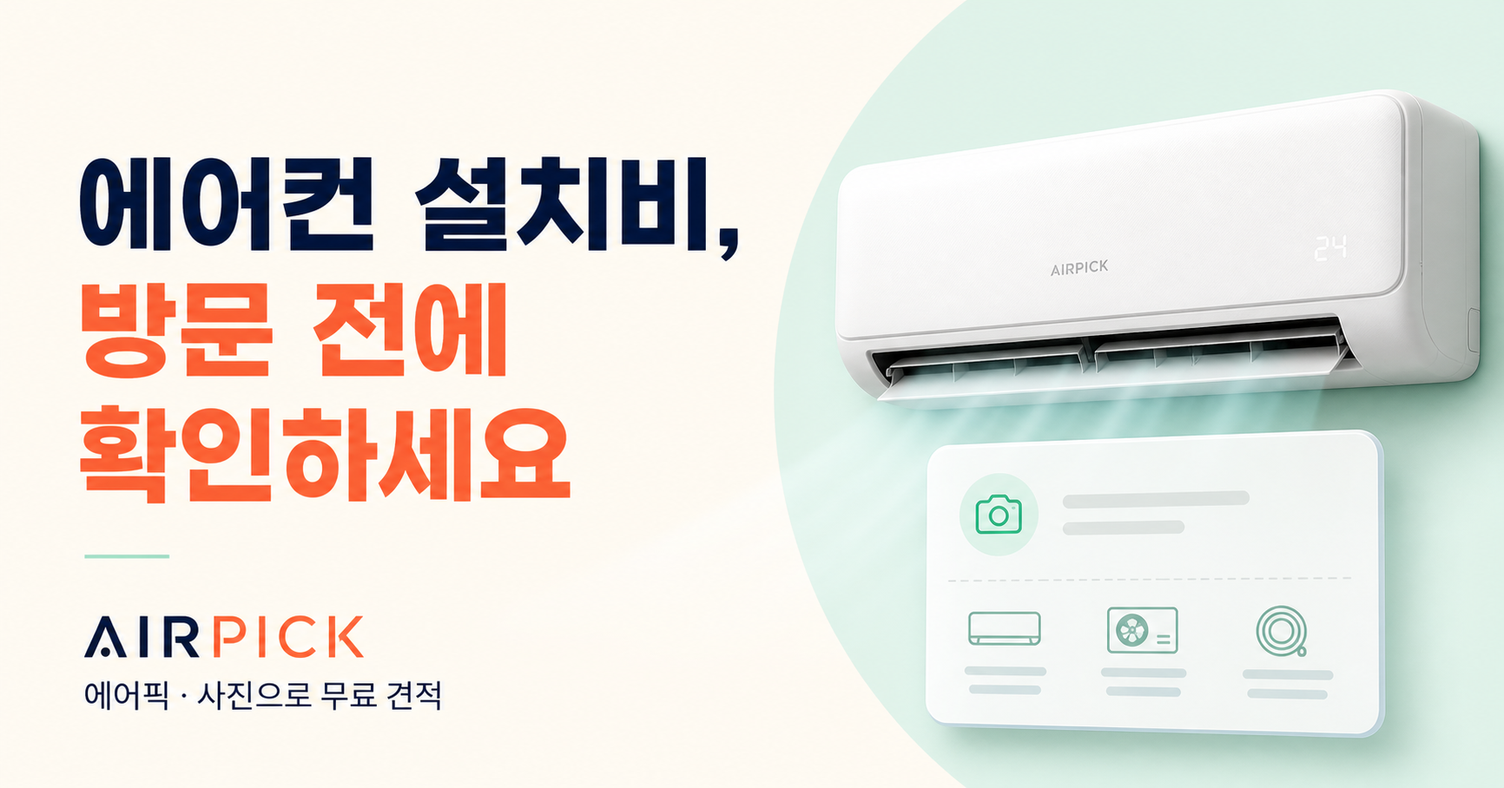
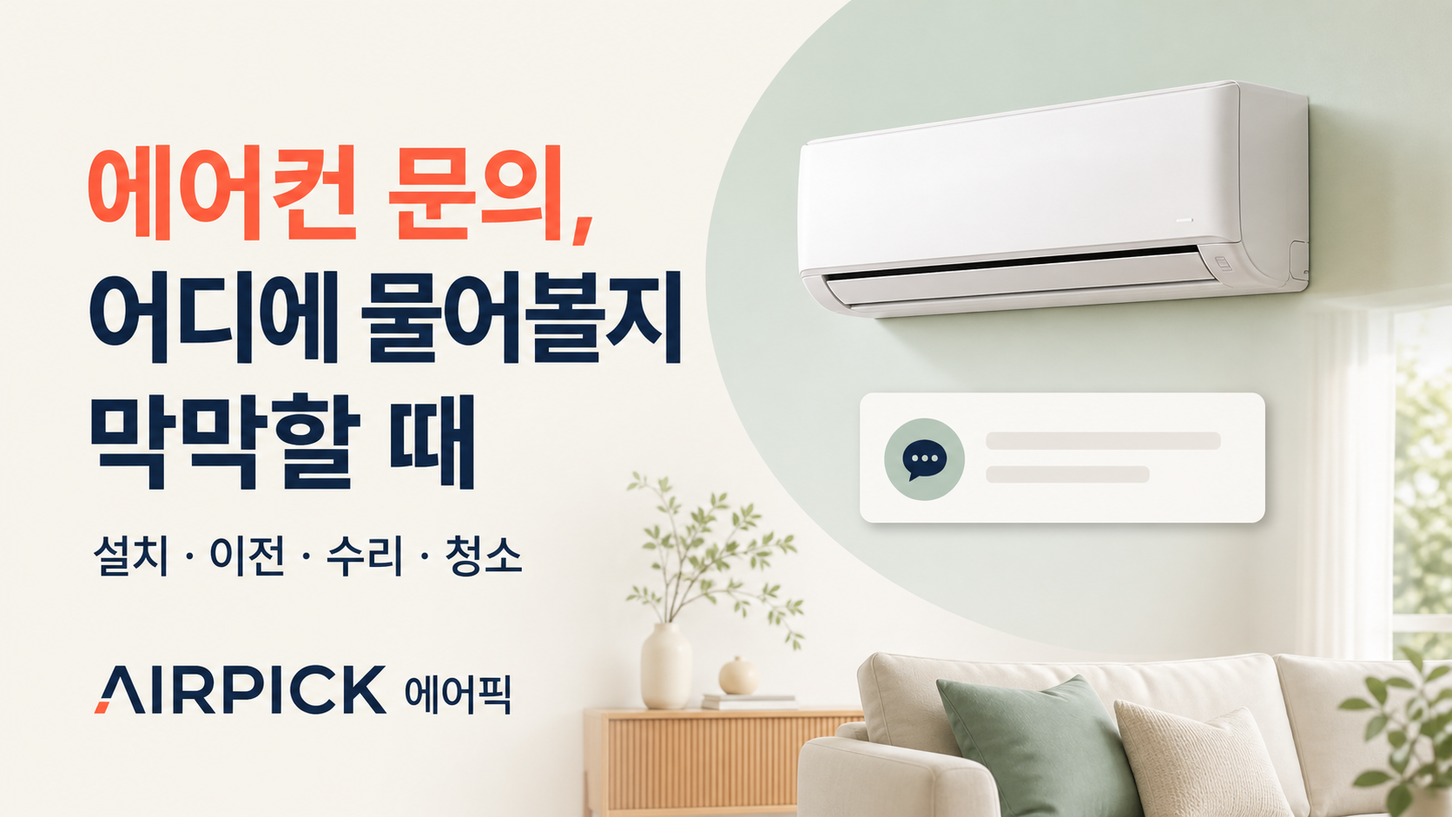
Redesign inquiry-focused home page

diff --git a/app/page.tsx b/app/page.tsx
@@ -1,26 +1,74 @@
 import Link from "@/components/HardLink";
-import { airconTypes, cases, money, posts, prices, SITE } from "../lib/site";
+import { airconTypes, cases, money, prices, SITE } from "../lib/site";
+
+const inquiryServices = [
+  { href: "/install", no: "01", icon: "+", title: "신규 설치", copy: "새 제품 설치가 필요해요" },
+  { href: "/relocation", no: "02", icon: "↔", title: "이전 설치", copy: "철거 후 다른 곳에 옮기고 싶어요" },
+  { href: "/repair", no: "03", icon: "⚙", title: "점검·수리", copy: "냉방, 누수, 소음 문제가 있어요" },
+  { href: "/cleaning", no: "04", icon: "✦", title: "분해 청소", copy: "냄새와 내부 오염이 걱정돼요" },
+  { href: "/system-aircon", no: "05", icon: "▦", title: "시스템에어컨", copy: "가정용 천장형 상담이 필요해요" },
+  { href: "/commercial-aircon", no: "06", icon: "▤", title: "상업용 냉난방", copy: "매장·사무실용으로 문의할게요" },
+];
+
+const faq = [
+  ["문의하면 바로 예약되는 건가요?", "아니요. 문의 내용을 확인한 뒤 연결 가능 여부를 안내하며, 업체와 가격·일정·작업 조건을 확인한 후 예약 여부를 결정합니다."],
+  ["상담 신청에 비용이 드나요?", "문의 접수와 상담 신청은 무료입니다. 실제 작업 비용은 제품과 현장 조건을 확인한 업체가 별도로 안내합니다."],
+  ["사진을 꼭 올려야 하나요?", "사진은 선택사항입니다. 다만 에어컨 전체, 실외기 위치와 배관 경로 사진이 있으면 현장 조건을 파악하는 데 도움이 됩니다."],
+  ["어느 지역에서 문의할 수 있나요?", "전국 주소를 입력해 문의할 수 있습니다. 지역과 작업 조건에 따라 연결 가능 여부는 달라질 수 있습니다."],
+];
 
 export default function Home() {
   const jsonLd = { "@context":"https://schema.org", "@type":"WebSite", name:SITE.name, url:SITE.url, description:SITE.description };
-  return <>
-    <script type="application/ld+json" dangerouslySetInnerHTML={{__html: JSON.stringify(jsonLd)}}/>
-    <section className="hero"><div className="hero-inner"><div className="hero-copy"><div className="eyebrow"><span>✓</span> 에어컨 문의, 한곳에서 간편하게</div><h1>설치·이전·수리,<br/><em>어디에 물어볼지</em> 막막할 때</h1><p>필요한 작업과 지역을 남겨주세요.<br/>비용 기준과 상담 가능 여부를 안내해드립니다.</p><div className="hero-actions"><Link href="/estimate" className="btn primary">에어컨 문의하기 <span>→</span></Link><Link href="/price" className="btn secondary">예상 가격 보기</Link></div><div className="trust-row"><span><b>무료</b> 문의 접수</span><span><b>간편</b> 1분 신청</span><span><b>안내</b> 가능 여부 개별 연락</span></div></div>
-      <div className="hero-visual" aria-label="밝은 거실의 벽걸이 에어컨 예시 사진"><div className="hero-photo-real photo-wall"><span className="photo-chip">벽걸이 · 스탠드 · 시스템 · 상업용</span><div className="hero-price-card"><div><span className="mini-logo">A</span><p><b>무료 상담 신청</b><small>현장 조건과 필요한 작업 확인</small></p></div><strong>무료 <i>→</i></strong></div></div></div>
-    </div><div className="hero-ticker"><span>예상 가격 안내</span><span>·</span><span>전국 지역 문의</span><span>·</span><span>설치·이전·수리·청소</span><span>·</span><span>무료 문의 접수</span></div></section>
+  return <div className="home-v2">
+    <script type="application/ld+json" dangerouslySetInnerHTML={{__html:JSON.stringify(jsonLd)}}/>
 
-    <section className="section services"><div className="section-head"><div><span className="kicker">ALL AIRCON TYPES</span><h2>어떤 에어컨이든<br/>먼저 문의해보세요</h2></div><p>벽걸이부터 가정용 시스템, 상업용 냉난방까지<br/>제품과 현장 조건에 맞는 상담을 접수합니다.</p></div><div className="service-grid type-grid">{airconTypes.map((s, i)=><Link href={`/estimate?aircon=${s.slug}`} className="service-card type-card" key={s.slug}><span className="service-no">0{i+1}</span><div className={`type-photo photo-${s.photo}`} role="img" aria-label={`${s.name} 설치 모습`}></div><h3>{s.name}</h3><p>{s.copy}</p><div><small>참고 시작가</small><strong>{s.price}</strong><span className="round-arrow">↗</span></div></Link>)}</div><div className="service-links"><span>필요한 작업</span><Link href="/install">신규 설치</Link><Link href="/relocation">이전 설치</Link><Link href="/repair">고장 수리</Link><Link href="/cleaning">분해 청소</Link><Link href="/system-aircon">가정용 시스템</Link><Link href="/commercial-aircon">상업용 냉난방</Link><Link href="/estimate">철거·기타 문의</Link></div></section>
+    <section className="home-hero">
+      <div className="home-hero-copy">
+        <div className="home-badge"><i/> 설치 · 이전 · 수리 · 청소 문의</div>
+        <h1>에어컨 문제,<br/><em>어디에 문의할지</em><br/>막막하셨나요?</h1>
+        <p>제품 종류와 필요한 작업만 알려주세요.<br/>참고 비용과 상담 가능 여부를 확인해드립니다.</p>
+        <div className="home-hero-actions">
+          <Link href="/estimate" className="home-main-cta">에어컨 문의하기 <span>→</span></Link>
+          <Link href="/price" className="home-sub-cta">예상 가격 먼저 보기</Link>
+        </div>
+        <ul className="home-proof"><li><b>무료</b><span>문의 접수</span></li><li><b>1분</b><span>간편 신청</span></li><li><b>전국</b><span>지역 입력</span></li></ul>
+      </div>
+      <div className="home-hero-media">
+        <div className="home-hero-photo" role="img" aria-label="거실 벽걸이 에어컨 설치 예시"></div>
+        <div className="home-float-card home-float-top"><span>지금 필요한 작업</span><b>설치부터 수리까지</b><small>한 번에 문의하세요</small></div>
+        <div className="home-float-card home-float-bottom"><i>A</i><div><b>에어픽 문의 접수</b><small>작업 조건 확인 후 개별 안내</small></div><strong>무료</strong></div>
+      </div>
+    </section>
 
-    <section className="price-preview"><div className="price-preview-inner"><div className="price-copy"><span className="kicker light">REFERENCE PRICE GUIDE</span><h2>문의하기 전에,<br/>예상 비용을 살펴보세요</h2><p>기본 설치비와 자주 발생하는 추가 비용을<br/>참고할 수 있도록 정리했습니다.</p><Link href="/price" className="text-link">전체 가격표 확인하기 <span>→</span></Link></div><div className="price-sheet"><div className="sheet-head"><span>서비스 항목</span><span>기준 가격</span></div>{prices.slice(0,5).map((p,i)=><div className="sheet-row" key={i}><div><span className={`dot d${i}`}></span><div><b>{p.category} {p.name}</b><small>{p.note}</small></div></div><strong>{money(p.price)}<small> / {p.unit}</small></strong></div>)}<div className="sheet-alert"><span>!</span><p><b>꼭 확인해주세요</b><br/>정확한 금액은 배관 길이와 실외기 위치 등 현장 조건에 따라 달라질 수 있습니다.</p></div></div></div></section>
+    <nav className="home-quick" aria-label="빠른 안내"><span>무엇이 궁금하세요?</span><Link href="/price">예상 가격</Link><Link href="/cases">비용 사례</Link><Link href="/service-policy">이용 방식</Link><Link href="/estimate">기타 문의</Link></nav>
 
-    <section className="section process"><div className="center-head"><span className="kicker">3 SIMPLE STEPS</span><h2>간편하게 상담받아보세요</h2><p>복잡한 설명 없이 필요한 정보만 남겨주세요</p></div><div className="steps"><div><span>01</span><div className="step-visual phone-shot"><i></i><b>서비스 선택</b><small>사진은 선택</small></div><h3>필요한 작업을 선택하세요</h3><p>제품 종류와 지역, 희망일을<br/>간단하게 알려주세요.</p></div><div className="step-line">→</div><div><span>02</span><div className="step-visual form-shot"><i>✓</i><b>상담 신청 접수</b><small>1분이면 완료</small></div><h3>신청 내용을 확인합니다</h3><p>남겨주신 정보를 살펴본 뒤<br/>상담을 위해 연락드립니다.</p></div><div className="step-line">→</div><div><span>03</span><div className="step-visual answer-shot"><i>↗</i><b>전문가 상담 안내</b><small>조건 확인</small></div><h3>연결 가능한 전문가를 안내합니다</h3><p>업체와 작업 조건을 확인한 뒤<br/>예약 여부를 결정하실 수 있어요.</p></div></div><div className="center-action"><Link href="/estimate" className="btn primary">무료 상담 신청 <span>→</span></Link></div></section>
+    <section className="home-block home-services">
+      <div className="home-heading"><div><span>01 · SERVICE</span><h2>어떤 작업이 필요하세요?</h2></div><p>가장 가까운 항목을 선택하면<br/>해당 서비스의 비용과 확인사항을 볼 수 있어요.</p></div>
+      <div className="home-service-grid">{inquiryServices.map(service=><Link href={service.href} className="home-service" key={service.title}><small>{service.no}</small><i>{service.icon}</i><div><h3>{service.title}</h3><p>{service.copy}</p></div><b>→</b></Link>)}</div>
+      <div className="home-other"><span>철거, 냉매 충전 또는 정확한 작업명을 모르시나요?</span><Link href="/estimate">기타 문의 남기기 →</Link></div>
+    </section>
 
-    <section className="cases-home"><div className="section"><div className="section-head"><div><span className="kicker">ESTIMATED COST CASES</span><h2>비슷한 조건의<br/>예상 비용을 참고하세요</h2></div><Link href="/cases" className="text-link dark">비용 사례 전체보기 →</Link></div><div className="case-grid">{cases.map(c=><Link href={`/cases/${c.slug}`} className="case-card" key={c.slug}><div className="case-art case-photo" style={{backgroundImage:`url('${c.image}')`}}><span className="case-tag">{c.type}</span><span className="photo-label">현장 예시 이미지</span></div><div className="case-body"><small>예상 조건 · {c.region}</small><h3>{c.title}</h3><p>{c.summary}</p><div><span>예상 작업비</span><strong>{money(c.total)}</strong></div></div></Link>)}</div></div></section>
+    <section className="home-type-section">
+      <div className="home-block">
+        <div className="home-heading light"><div><span>02 · AIRCON TYPE</span><h2>제품 종류별로 확인하세요</h2></div><p>벽걸이부터 시스템·상업용까지<br/>사진을 보고 내 제품과 가까운 유형을 선택하세요.</p></div>
+        <div className="home-type-grid">{airconTypes.map((type,index)=><Link href={`/estimate?aircon=${type.slug}`} className="home-type-card" key={type.slug}><div className={`home-type-photo photo-${type.photo}`} role="img" aria-label={`${type.name} 예시 사진`}><span>0{index+1}</span></div><div><h3>{type.name}</h3><p>{type.copy}</p><small>참고 시작가 <b>{type.price}</b></small></div></Link>)}</div>
+      </div>
+    </section>
 
-    <section className="section guide"><div className="section-head"><div><span className="kicker">AIRCON GUIDE</span><h2>알아두면 비용이<br/>보이는 에어컨 가이드</h2></div><Link href="/blog" className="text-link dark">가이드 전체보기 →</Link></div><div className="post-grid">{posts.slice(0,3).map((p,i)=><Link href={`/blog/${p.slug}`} className="post-card" key={p.slug}><div className={`post-art post-${i}`}><span>{i===0?"₩":i===1?"⌂":"↗"}</span></div><small>{p.category} · {p.read}</small><h3>{p.title}</h3><p>{p.excerpt}</p><b>읽어보기 →</b></Link>)}</div></section>
+    <section className="home-block home-price-area">
+      <div className="home-price-copy"><span>03 · PRICE GUIDE</span><h2>문의 전,<br/>대략적인 비용부터</h2><p>표시된 금액은 일반적인 조건을 기준으로 한 참고 가격입니다. 배관 길이, 실외기 위치와 제품 상태에 따라 실제 비용은 달라질 수 있어요.</p><Link href="/price">전체 예상 가격 확인 →</Link></div>
+      <div className="home-price-card"><div className="home-price-head"><b>자주 찾는 예상 가격</b><span>참고용</span></div>{prices.slice(0,5).map((price,index)=><div className="home-price-row" key={`${price.name}-${index}`}><i className={`p${index}`}/><div><b>{price.category} {price.name}</b><small>{price.note}</small></div><strong>{money(price.price)}<small> / {price.unit}</small></strong></div>)}<p>※ 정확한 금액은 상담 및 현장 조건 확인 후 결정됩니다.</p></div>
+    </section>
 
-    <section className="connection-notice"><div className="connection-notice-inner"><div><span className="kicker light">CLEAR & SIMPLE</span><h2>상담부터 예약까지<br/>확인하고 결정하세요</h2><p>에어픽은 필요한 에어컨 서비스 상담을 접수하고 연결을 돕습니다. 업체 정보와 예상 작업 조건을 확인한 뒤 고객이 예약 여부를 결정합니다.</p><Link href="/service-policy" className="text-link">서비스 이용 안내 보기 →</Link></div><div className="connection-points"><div><b>01</b><span><strong>상담 신청은 무료</strong>부담 없이 필요한 서비스를 알려주세요</span></div><div><b>02</b><span><strong>가격은 현장 조건에 따라 확인</strong>배관·타공·실외기 위치 등을 살펴봅니다</span></div><div><b>03</b><span><strong>예약은 상담 후 결정</strong>업체와 작업 조건을 확인하고 선택하세요</span></div></div></div></section>
+    <section className="home-case-section"><div className="home-block">
+      <div className="home-heading"><div><span>04 · COST EXAMPLES</span><h2>비슷한 조건의 비용 예시</h2></div><Link href="/cases" className="home-section-link">전체 사례 보기 →</Link></div>
+      <div className="home-case-grid">{cases.slice(0,3).map(item=><Link href={`/cases/${item.slug}`} className="home-case" key={item.slug}><div className="home-case-photo" style={{backgroundImage:`url('${item.image}')`}}><span>{item.type}</span><small>현장 예시 이미지</small></div><div><small>예상 조건 · {item.region}</small><h3>{item.title}</h3><p>{item.summary}</p><footer><span>예상 작업비</span><b>{money(item.total)}</b></footer></div></Link>)}</div>
+    </div></section>
 
-    <section className="final-cta"><div><span>설치·이전·수리, 어디에 문의할지 고민되시나요?</span><h2>필요한 작업을 알려주세요.<br/>가능한 상담 방법을 안내할게요.</h2><p>문의 접수는 무료이며 작업 예약은 조건 확인 후 결정합니다.</p><div><Link href="/estimate" className="btn white">에어컨 문의하기 →</Link></div></div><div className="cta-orbit"><div className="big-ac">A</div><span className="bubble one">문의 무료</span><span className="bubble two">간편 접수</span></div></section>
-  </>;
+    <section className="home-flow"><div className="home-block"><div className="home-flow-title"><span>05 · HOW IT WORKS</span><h2>문의부터 결정까지</h2><p>신청만으로 예약되지 않아요.<br/>확인하고 나서 결정하시면 됩니다.</p></div><ol><li><b>01</b><div><strong>문의 접수</strong><span>서비스·제품·지역 입력</span></div></li><li><b>02</b><div><strong>내용 확인</strong><span>현장 조건과 상담 가능 여부 확인</span></div></li><li><b>03</b><div><strong>상담 안내</strong><span>연결 가능한 업체 정보 안내</span></div></li><li><b>04</b><div><strong>고객 결정</strong><span>가격과 일정 확인 후 예약 선택</span></div></li></ol></div></section>
+
+    <section className="home-block home-faq"><div className="home-heading"><div><span>06 · FAQ</span><h2>문의 전에 많이 물어보는 내용</h2></div></div><div className="home-faq-list">{faq.map(([question,answer])=><details key={question}><summary>{question}<span>＋</span></summary><p>{answer}</p></details>)}</div></section>
+
+    <section className="home-bottom-cta"><div><span>에어컨 설치·이전·수리·청소</span><h2>무엇부터 확인해야 할지 몰라도<br/>편하게 문의하세요.</h2><p>필요한 작업과 지역을 남겨주시면 확인 후 연락드립니다.</p><Link href="/estimate">무료로 문의하기 <b>→</b></Link></div><div className="home-bottom-mark">A</div></section>
+  </div>;
 }

diff --git a/app/globals.css b/app/globals.css
@@ -43,3 +43,9 @@
 @media(max-width:800px){.connection-notice{padding:64px 20px}.connection-notice-inner{grid-template-columns:1fr;gap:38px}.connection-notice h2{font-size:28px}.policy-check ul{grid-template-columns:1fr}}
 
 @media(max-width:600px){.policy-list section{grid-template-columns:38px 1fr;gap:10px}.policy-highlight{padding:20px}}
+
+/* Home inquiry-first redesign */
+.home-v2{background:#fff}.home-hero{max-width:1280px;margin:auto;padding:64px 48px 42px;display:grid;grid-template-columns:1fr .92fr;gap:70px;align-items:center}.home-hero-copy{padding-left:22px}.home-badge{display:inline-flex;align-items:center;gap:9px;padding:9px 13px;border:1px solid #ffd9cf;border-radius:999px;background:#fff6f2;color:#d84d2d;font-size:12px;font-weight:850}.home-badge i{width:7px;height:7px;border-radius:50%;background:var(--coral);box-shadow:0 0 0 4px #ffe1da}.home-hero h1{font-size:61px;line-height:1.13;letter-spacing:-.07em;margin:24px 0 22px}.home-hero h1 em{color:var(--coral);font-style:normal}.home-hero-copy>p{font-size:18px;line-height:1.75;color:#606a79;margin:0}.home-hero-actions{display:flex;gap:10px;margin-top:30px}.home-main-cta,.home-sub-cta{height:56px;padding:0 23px;border-radius:11px;display:inline-flex;align-items:center;justify-content:center;font-size:15px;font-weight:850}.home-main-cta{background:var(--coral);color:#fff;gap:38px;box-shadow:0 12px 28px rgba(255,104,70,.24)}.home-sub-cta{border:1px solid #dfe2e5;background:#fff}.home-proof{list-style:none;padding:0;margin:34px 0 0;display:flex}.home-proof li{padding:0 28px;border-right:1px solid #e1e3e5}.home-proof li:first-child{padding-left:0}.home-proof li:last-child{border:0}.home-proof b,.home-proof span{display:block}.home-proof b{font-size:17px}.home-proof span{font-size:11px;color:#87909c;margin-top:3px}.home-hero-media{height:530px;position:relative}.home-hero-media:before{content:"";position:absolute;inset:35px -20px -15px 55px;background:#dff2eb;border-radius:180px 24px 24px 24px}.home-hero-photo{position:absolute;inset:0 22px 34px 0;border-radius:22px;background:url('/aircon-types.png') left top/auto 200% no-repeat;box-shadow:0 24px 55px rgba(18,33,61,.15)}.home-float-card{position:absolute;z-index:2;background:rgba(255,255,255,.96);backdrop-filter:blur(12px);box-shadow:0 14px 38px rgba(18,33,61,.16)}.home-float-top{right:-7px;top:42px;border-radius:13px;padding:16px 20px;width:190px}.home-float-top span,.home-float-top small{display:block;color:#8a929d;font-size:10px}.home-float-top b{display:block;font-size:15px;margin:6px 0 3px}.home-float-bottom{left:-30px;right:0;bottom:3px;border-radius:15px;padding:15px 17px;display:flex;align-items:center;gap:12px}.home-float-bottom>i{display:grid;place-items:center;width:39px;height:39px;border-radius:11px;background:var(--ink);color:#fff;font-weight:900;font-style:italic}.home-float-bottom>div{flex:1}.home-float-bottom b,.home-float-bottom small{display:block}.home-float-bottom b{font-size:14px}.home-float-bottom small{font-size:10px;color:#89919d;margin-top:4px}.home-float-bottom>strong{color:var(--coral);font-size:18px}.home-quick{max-width:1160px;margin:0 auto 12px;border:1px solid #e7e8e6;border-radius:12px;padding:13px 18px;display:flex;align-items:center;justify-content:center;gap:9px;background:#fff;box-shadow:0 12px 35px rgba(18,33,61,.06)}.home-quick>span{font-size:12px;font-weight:850;margin-right:8px}.home-quick a{padding:9px 16px;border-radius:8px;background:#f5f6f4;color:#526071;font-size:12px;font-weight:750}.home-quick a:hover{background:#fff0eb;color:#dd4f2e}.home-block{max-width:1180px;margin:auto;padding:100px 24px}.home-heading{display:flex;align-items:end;justify-content:space-between;margin-bottom:38px}.home-heading>div>span,.home-price-copy>span,.home-flow-title>span{color:var(--coral);font-size:11px;font-weight:900;letter-spacing:.13em}.home-heading h2,.home-price-copy h2,.home-flow-title h2{font-size:39px;line-height:1.25;letter-spacing:-.055em;margin:12px 0 0}.home-heading>p{color:#707987;line-height:1.7;font-size:14px;margin:0}.home-service-grid{display:grid;grid-template-columns:repeat(3,1fr);gap:13px}.home-service{min-height:142px;padding:21px;border:1px solid #e6e7e4;border-radius:15px;display:grid;grid-template-columns:48px 1fr auto;grid-template-rows:auto 1fr;column-gap:15px;align-items:center;transition:.22s}.home-service:hover{border-color:#ffaf9d;transform:translateY(-3px);box-shadow:0 16px 32px rgba(18,33,61,.08)}.home-service>small{grid-column:1/-1;color:#a0a6af;font-size:10px;font-weight:850;margin-bottom:14px}.home-service>i{display:grid;place-items:center;width:46px;height:46px;border-radius:13px;background:#fff0eb;color:var(--coral);font-size:20px;font-style:normal}.home-service h3{font-size:17px;margin:0 0 5px}.home-service p{font-size:11px;color:#838b96;margin:0;line-height:1.4}.home-service>b{font-size:18px}.home-other{margin-top:16px;padding:18px 21px;background:#f5f7f5;border-radius:11px;display:flex;justify-content:space-between;align-items:center;font-size:12px;color:#687381}.home-other a{font-weight:850;color:var(--coral)}.home-type-section{background:#12213d;color:#fff}.home-heading.light>p{color:#aeb8c7}.home-type-grid{display:grid;grid-template-columns:repeat(3,1fr);gap:15px}.home-type-card{overflow:hidden;border:1px solid rgba(255,255,255,.12);border-radius:15px;background:rgba(255,255,255,.06);transition:.2s}.home-type-card:hover{transform:translateY(-4px);border-color:rgba(255,255,255,.35)}.home-type-photo{height:190px;background-image:url('/aircon-types.png');background-repeat:no-repeat;background-size:200% auto;position:relative}.home-type-photo.photo-wall{background-position:left top}.home-type-photo.photo-stand{background-position:right top}.home-type-photo.photo-two{background-position:left bottom}.home-type-photo.photo-ceiling{background-image:url('/services/ceiling-cassette-v2.png');background-position:center 28%;background-size:cover}.home-type-photo.photo-system{background-image:url('/services/residential-system-v2.png');background-position:center 30%;background-size:cover}.home-type-photo.photo-commercial{background-image:url('/services/commercial-hvac-v2.png');background-position:center;background-size:cover}.home-type-photo span{position:absolute;right:13px;top:13px;background:rgba(18,33,61,.74);padding:6px 9px;border-radius:999px;font-size:10px}.home-type-card>div:last-child{padding:19px}.home-type-card h3{font-size:17px;margin:0 0 7px}.home-type-card p{color:#aeb8c7;font-size:11px;line-height:1.5;height:33px;margin:0 0 15px}.home-type-card small{color:#9fabbc;font-size:10px}.home-type-card small b{color:#fff;font-size:14px;margin-left:6px}.home-price-area{display:grid;grid-template-columns:.76fr 1.24fr;gap:82px;align-items:center}.home-price-copy h2{font-size:43px}.home-price-copy p{font-size:14px;line-height:1.8;color:#707a88}.home-price-copy a,.home-section-link{display:inline-block;color:var(--coral);font-size:13px;font-weight:850;margin-top:17px;border-bottom:1px solid currentColor;padding-bottom:5px}.home-price-card{border-radius:17px;background:#f5f6f4;padding:16px 25px 18px}.home-price-head{display:flex;justify-content:space-between;padding:8px 0 13px}.home-price-head b{font-size:14px}.home-price-head span{font-size:10px;background:#fff0e9;color:#d74d2e;padding:5px 8px;border-radius:999px;font-weight:800}.home-price-row{display:grid;grid-template-columns:10px 1fr auto;gap:12px;align-items:center;padding:13px 0;border-top:1px solid #dee1df}.home-price-row>i{width:8px;height:8px;border-radius:50%;background:var(--coral)}.home-price-row>i.p1{background:#318fc4}.home-price-row>i.p2{background:#69a68c}.home-price-row>i.p3{background:#e9a52d}.home-price-row>i.p4{background:#7e89a2}.home-price-row b,.home-price-row small{display:block}.home-price-row b{font-size:13px}.home-price-row small{font-size:9px;color:#8d959f;margin-top:3px}.home-price-row>strong{font-size:15px}.home-price-row>strong small{display:inline}.home-price-card>p{margin:9px 0 0;color:#8b929a;font-size:9px}.home-case-section{background:#f5f6f3}.home-section-link{color:var(--ink);margin:0}.home-case-grid{display:grid;grid-template-columns:repeat(3,1fr);gap:17px}.home-case{border-radius:15px;overflow:hidden;background:#fff;transition:.2s}.home-case:hover{transform:translateY(-4px);box-shadow:0 18px 35px rgba(18,33,61,.08)}.home-case-photo{height:220px;background-size:cover;background-position:center;position:relative}.home-case-photo>span{position:absolute;left:13px;top:13px;background:#fff;padding:6px 10px;border-radius:999px;font-size:10px;font-weight:850}.home-case-photo>small{position:absolute;right:12px;bottom:12px;background:rgba(18,33,61,.7);color:#fff;padding:5px 8px;border-radius:999px;font-size:9px}.home-case>div:last-child{padding:20px}.home-case>div>small{font-size:10px;color:var(--coral);font-weight:750}.home-case h3{font-size:18px;margin:8px 0}.home-case p{height:35px;color:#7d8590;font-size:11px;line-height:1.5}.home-case footer{display:flex;justify-content:space-between;align-items:end;border-top:1px solid #eee;padding-top:15px}.home-case footer span{font-size:10px;color:#89919a}.home-case footer b{font-size:19px}.home-flow{background:#ff6846;color:#fff}.home-flow>.home-block{display:grid;grid-template-columns:.72fr 1.28fr;gap:70px;align-items:center}.home-flow-title>span{color:#ffd2c7}.home-flow-title h2{font-size:40px}.home-flow-title p{color:#ffe1da;line-height:1.7;font-size:13px}.home-flow ol{list-style:none;padding:0;margin:0;display:grid;grid-template-columns:1fr 1fr;gap:10px}.home-flow li{display:flex;align-items:center;gap:14px;border:1px solid rgba(255,255,255,.28);border-radius:12px;padding:17px;background:rgba(255,255,255,.1)}.home-flow li>b{font-size:11px;color:#ffd4ca}.home-flow li strong,.home-flow li span{display:block}.home-flow li strong{font-size:14px}.home-flow li span{font-size:10px;color:#ffe1da;margin-top:4px}.home-faq{max-width:900px}.home-faq .home-heading{display:block}.home-faq-list{border-top:2px solid var(--ink)}.home-faq details{border-bottom:1px solid #e4e6e5}.home-faq summary{list-style:none;padding:21px 3px;display:flex;justify-content:space-between;cursor:pointer;font-size:15px;font-weight:800}.home-faq summary::-webkit-details-marker{display:none}.home-faq summary span{color:var(--coral);font-size:20px}.home-faq details[open] summary span{transform:rotate(45deg)}.home-faq details p{margin:0;padding:0 35px 22px 3px;color:#697381;font-size:13px;line-height:1.75}.home-bottom-cta{max-width:1130px;min-height:360px;margin:0 auto 90px;padding:58px 65px;border-radius:22px;background:#12213d;color:#fff;display:flex;justify-content:space-between;align-items:center;overflow:hidden}.home-bottom-cta>div:first-child{z-index:2}.home-bottom-cta>div>span{color:#ff9c85;font-size:11px;font-weight:850;letter-spacing:.08em}.home-bottom-cta h2{font-size:37px;line-height:1.3;letter-spacing:-.05em;margin:13px 0}.home-bottom-cta p{color:#aeb8c7;font-size:13px}.home-bottom-cta a{display:inline-flex;align-items:center;gap:45px;margin-top:15px;background:var(--coral);padding:15px 20px;border-radius:10px;font-size:14px;font-weight:850}.home-bottom-mark{width:230px;height:230px;border-radius:50%;display:grid;place-items:center;background:#fff;color:var(--coral);font-size:100px;font-weight:900;font-style:italic;transform:rotate(-7deg)}
+
+@media(max-width:900px){.home-hero{padding:52px 22px 32px;grid-template-columns:1fr;gap:35px}.home-hero-copy{padding-left:0}.home-hero h1{font-size:48px}.home-hero-media{height:430px}.home-quick{margin:0 18px;justify-content:flex-start;overflow:auto}.home-quick>span{white-space:nowrap}.home-quick a{white-space:nowrap}.home-service-grid{grid-template-columns:1fr 1fr}.home-type-grid{grid-template-columns:1fr 1fr}.home-price-area{grid-template-columns:1fr;gap:35px}.home-case-grid{grid-template-columns:1fr 1fr}.home-flow>.home-block{grid-template-columns:1fr;gap:35px}.home-bottom-cta{margin:0 18px 75px}.home-bottom-mark{opacity:.13;margin-right:-100px}}
+@media(max-width:600px){.home-hero{padding-top:42px}.home-hero h1{font-size:39px}.home-hero-copy>p{font-size:15px}.home-hero-actions{flex-direction:column}.home-main-cta{gap:25px}.home-proof{justify-content:space-between}.home-proof li{padding:0 15px}.home-hero-media{height:350px}.home-hero-photo{inset:0 0 27px}.home-hero-media:before{inset:25px -8px -5px 35px}.home-float-top{display:none}.home-float-bottom{left:10px;right:10px}.home-block{padding:72px 20px}.home-heading{display:block}.home-heading h2,.home-price-copy h2,.home-flow-title h2{font-size:31px}.home-heading>p{margin-top:15px}.home-service-grid,.home-type-grid,.home-case-grid{grid-template-columns:1fr}.home-service{min-height:125px}.home-other{display:block;line-height:1.6}.home-other a{display:block;margin-top:7px}.home-type-photo{height:220px}.home-case-photo{height:230px}.home-flow ol{grid-template-columns:1fr}.home-bottom-cta{min-height:430px;padding:42px 25px;position:relative}.home-bottom-cta h2{font-size:29px}.home-bottom-cta a{width:100%;justify-content:space-between}.home-bottom-mark{position:absolute;right:-70px;bottom:-45px}}

diff --git a/app/layout.tsx b/app/layout.tsx
@@ -8,8 +8,8 @@ export const metadata: Metadata = {
   title: { default: "에어픽 | 에어컨 설치·이전·수리 문의", template: "%s | 에어픽" },
   description: SITE.description,
   alternates: { canonical: "/" },
-  openGraph: { title: "에어픽 | 에어컨 설치·이전·수리 문의", description: SITE.description, type: "website", locale: "ko_KR", siteName: SITE.name },
-  twitter: { card: "summary", title: "에어픽", description: SITE.description },
+  openGraph: { title: "에어픽 | 에어컨 설치·이전·수리 문의", description: SITE.description, type: "website", locale: "ko_KR", siteName: SITE.name, images: [{ url: "/og.png", width: 1536, height: 1024, alt: "에어컨 문의, 어디에 물어볼지 막막할 때 - 에어픽" }] },
+  twitter: { card: "summary_large_image", title: "에어픽", description: SITE.description, images: ["/og.png"] },
 };
 
 function Header() {
